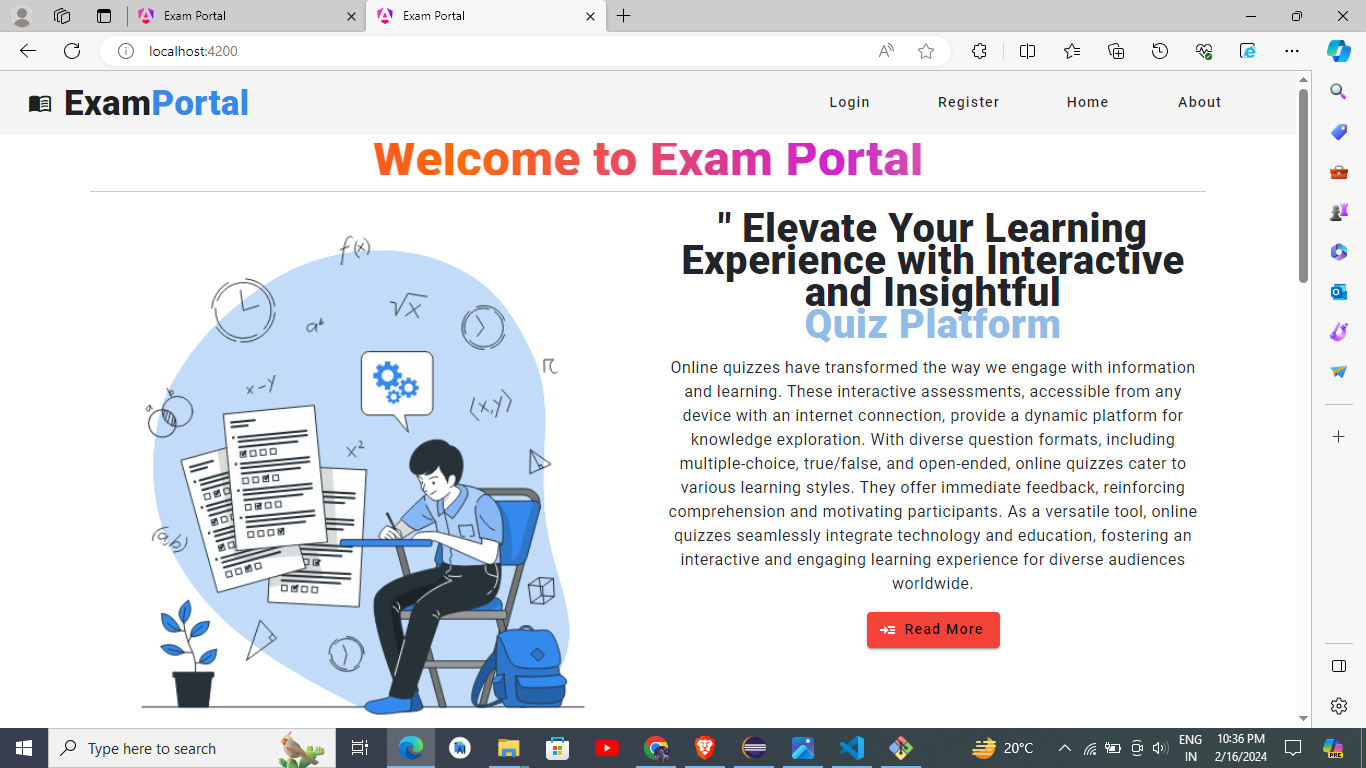
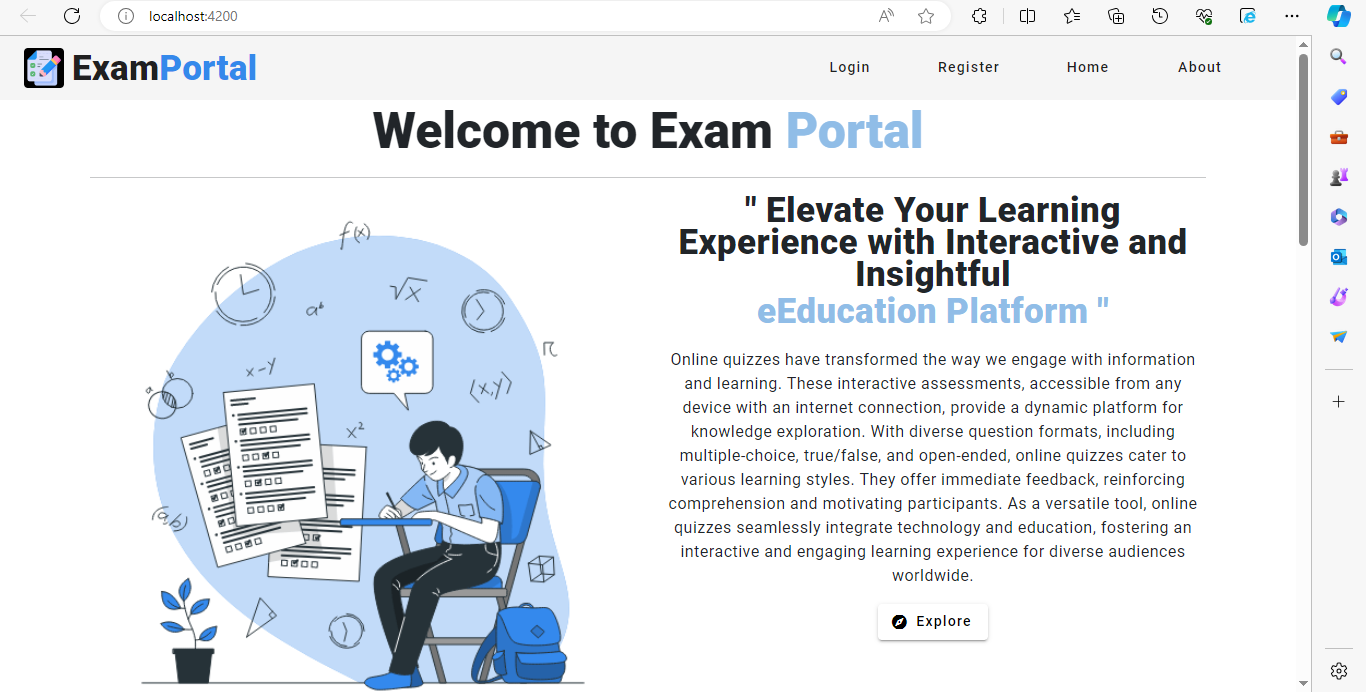
frontEnd of home updated

diff --git a/ExamPortalFrontEnd/src/app/components/navbar/navbar.component.html b/ExamPortalFrontEnd/src/app/components/navbar/navbar.component.html
@@ -1,42 +1,45 @@
-<mat-toolbar color="EEF4ED">
-  <a routerLink="/" mat-icon-button class="example-icon" aria-label="Example icon-button with menu icon">
-    <mat-icon>menu_book</mat-icon>
-  </a>
-  <span class="logo">Exam<span id="p">Portal</span></span>
-  <span class="example-spacer"></span>
-  <a *ngIf="!login.isLoggedIn()" [routerLink]="'/login'" mat-button class=" nav me-5">
-    Login
-  </a>
-  <a *ngIf="!login.isLoggedIn()" [routerLink]="'/signup'" mat-button class="nav me-5">
-    Register
-  </a>
-
-  <a [routerLink]="'/'" mat-button class="nav me-5">
-    Home
-  </a>
-
-  <!-- for normal user dashboard -->
-  <a *ngIf="login.isLoggedIn()&& login.getUserRole()=='NORMAL'" [routerLink]="'/user-dashboard'" mat-button
-    class="nav me-5">
-    Dashboard
-  </a>
-
-  <!-- for ADMIN dashboard -->
-  <a *ngIf="login.isLoggedIn()&& login.getUserRole()=='ADMIN'" [routerLink]="'/dashboard'" mat-button class="nav me-5">
-    Dashboard
-  </a>
-
-  <a *ngIf="login.isLoggedIn()" mat-button class="nav me-5">
-    {{login.getUser().username}}
-  </a>
-
-  <a (click)="logout()" *ngIf="login.isLoggedIn()" [routerLink]="'/signup'" mat-button class="nav me-5">
-    Logout
-  </a>
-
+ 
+  <mat-toolbar color="EEF4ED">
+    <a [routerLink]="'/'"   >
+      <img id="logo" src="assets/images/logo.png" alt="">
+       
+    </a>
+    <span class="logo">Exam<span id="p">Portal</span></span>
+    <span class="example-spacer"></span>
+    <a *ngIf="!login.isLoggedIn()" [routerLink]="'/login'" mat-button class=" nav me-5">
+      Login
+    </a>
+    <a *ngIf="!login.isLoggedIn()" [routerLink]="'/signup'" mat-button class="nav me-5">
+      Register
+    </a>
   
-  <a *ngIf="!login.isLoggedIn()" href="#about" mat-button class="nav me-5">
-    About
-  </a>
-
-</mat-toolbar>
+    <a [routerLink]="'/'" mat-button class="nav me-5">
+      Home
+    </a>
+  
+    <!-- for normal user dashboard -->
+    <a *ngIf="login.isLoggedIn()&& login.getUserRole()=='NORMAL'" [routerLink]="'/user-dashboard'" mat-button
+      class="nav me-5">
+      Dashboard
+    </a>
+  
+    <!-- for ADMIN dashboard -->
+    <a *ngIf="login.isLoggedIn()&& login.getUserRole()=='ADMIN'" [routerLink]="'/dashboard'" mat-button class="nav me-5">
+      Dashboard
+    </a>
+  
+    <a *ngIf="login.isLoggedIn()" mat-button class="nav me-5">
+      {{login.getUser().username}}
+    </a>
+  
+    <a (click)="logout()" *ngIf="login.isLoggedIn()" [routerLink]="'/signup'" mat-button class="nav me-5">
+      Logout
+    </a>
+  
+    
+    <a *ngIf="!login.isLoggedIn()" href="#about" mat-button class="nav me-5">
+      About
+    </a>
+  
+  </mat-toolbar>
+ 

diff --git a/ExamPortalFrontEnd/src/app/pages/home/home.component.html b/ExamPortalFrontEnd/src/app/pages/home/home.component.html
@@ -1,21 +1,22 @@
 <div class="container text-center">
-    <h1 class="wlcm mt-2">Welcome to Exam Portal</h1>
+    <h1 class="wlcm ">Welcome to Exam  <span
+        class="p">Portal</span></h1>
     <hr>
 
     <div class="row">
         <div class="col"><img src="assets/images/Exams.gif" alt=""></div>
         <div class="col">
-            <h2 class="display_text mt-1">" Elevate Your Learning Experience with Interactive and Insightful <br> <span
-                    class="p">Quiz Platform</span></h2>
-            <h4>Online quizzes have transformed the way we engage with information and learning. These interactive
+            <h2 class="display_text ">" Elevate Your Learning Experience with Interactive and Insightful <br> <span
+                    class="p">eEducation Platform "</span></h2>
+            <h4 id="intro">Online quizzes have transformed the way we engage with information and learning. These interactive
                 assessments, accessible from any device with an internet connection, provide a dynamic platform for
                 knowledge exploration. With diverse question formats, including multiple-choice, true/false, and
                 open-ended, online quizzes cater to various learning styles. They offer immediate feedback, reinforcing
                 comprehension and motivating participants. As a versatile tool, online quizzes
                 seamlessly integrate technology and education, fostering an interactive and engaging learning experience
                 for diverse audiences worldwide.</h4>
-            <button type="#" mat-raised-button color="warn"><a href="#about"> Read More</a>
-                <mat-icon>read_more</mat-icon></button>
+                <a href="#about" class="mt-3"><button type="#"   mat-raised-button  >Explore
+                <mat-icon>explore</mat-icon></button></a>
         </div>
     </div>
 

diff --git a/ExamPortalFrontEnd/src/app/pages/home/home.component.css b/ExamPortalFrontEnd/src/app/pages/home/home.component.css
@@ -5,21 +5,31 @@ color: #000;
 
 .col img{
     width:100%;
-    height: auto;
+    height:98%;
 }
-
- 
 
 .wlcm { 
    font-family: 'Roboto', sans-serif;
-   font-weight: bold;
-   font-size:40px;
-   /* font-family: Arial, Helvetica, sans-serif;  */
-   background: linear-gradient(to right, #f32170, 
-           #ff6b08, #cf23cf, #eedd44); 
-   -webkit-text-fill-color: transparent; 
-   -webkit-background-clip: text; 
-} 
+   font-weight:bold;
+   font-size:3px;
+   
+ } 
+
+/* Media query for smaller screen sizes */
+@media screen and (max-width: 768px) {
+   .wlcm {  
+      font-weight:bold;
+      font-size:20px;
+      text-wrap:balance;
+      line-height: normal;
+   }
+   .col img{
+      width:100%;
+      height:auto;
+  }
+ }
+
+
  .footer {
       background-color: #3489ed;
       color: white;
@@ -46,12 +56,24 @@ color: #000;
 .display_text{
     font-family: 'Roboto', sans-serif;
     font-weight:bold;
-    font-size: 40px;
+    font-size:35px;
 
 }
+
+/* Media query for smaller screen sizes */
+@media screen and (max-width: 768px) {
+   .display_text {
+      font-weight:bold;
+    font-size:20px; /* resize display text on change screen */
+   }
+   #intro{
+      display:none;
+   }
+ }
   
 .p{
     color: #90bde7;
+    line-height: normal
   } 
 
 

diff --git a/ExamPortalFrontEnd/src/index.html b/ExamPortalFrontEnd/src/index.html
@@ -2,11 +2,11 @@
 <html lang="en">
 <head>
   <meta charset="utf-8">
-  <title>Exam  Portal</title>
+  <title>Exam Portal</title>
   <base href="/">
   <meta name="viewport" content="width=device-width, initial-scale=1">
-  <link rel="icon" type="image/x-icon" href="favicon.ico">
-  <link rel="icon" type="image/x-icon" href="images">
+  <!-- <link rel="icon" type="image/x-icon" href="logo.png">
+  <link rel="icon" type="image/x-icon" href="images"> -->
   <link href="https://fonts.googleapis.com/css2?family=Roboto:wght@300;400;500&display=swap" rel="stylesheet">
   <link href="https://fonts.googleapis.com/icon?family=Material+Icons" rel="stylesheet">
   <link href="https://cdn.jsdelivr.net/npm/bootstrap@5.3.2/dist/css/bootstrap.min.css" rel="stylesheet" integrity="sha384-T3c6CoIi6uLrA9TneNEoa7RxnatzjcDSCmG1MXxSR1GAsXEV/Dwwykc2MPK8M2HN" crossorigin="anonymous">

diff --git a/ExamPortalFrontEnd/src/app/components/navbar/navbar.component.css b/ExamPortalFrontEnd/src/app/components/navbar/navbar.component.css
@@ -1,22 +1,50 @@
 
   @import url('https://fonts.googleapis.com/css2?family=Roboto:wght@900&display=swap');
 
-   
+  img{
+    width: 40px;
+    height: 40px;
+    border-radius:10%;
+    padding:2px;
+    margin:8px;
+    background-color: black;
+  }
+  img:hover{
+    
+  /* transform: matrix(1, 0, 0, 1, 50, 20); */
+  
+  transform:scale(1.1);
+    background-color: #3489eb;
+  }
+  
 .logo{
    
   font-family: 'Roboto', sans-serif;
   font-weight: bold;
   font-size:35px;
 }
+/* Media query for smaller screen sizes */
+@media screen and (max-width: 768px) {
+  .logo {
+    display: none; /* Hide nav links for smaller screens */
+  }
+  .example-spacer {
+    flex: 1 auto;
+  }
+ 
+}
+
 
 #p{
    
   color: #3489eb;
 }
 .example-spacer {
-    flex: 1 1 auto;
+    flex: 1 auto;
   }
   
 .nav:hover{
 background-color: #3489eb;
 }
+
+ 
